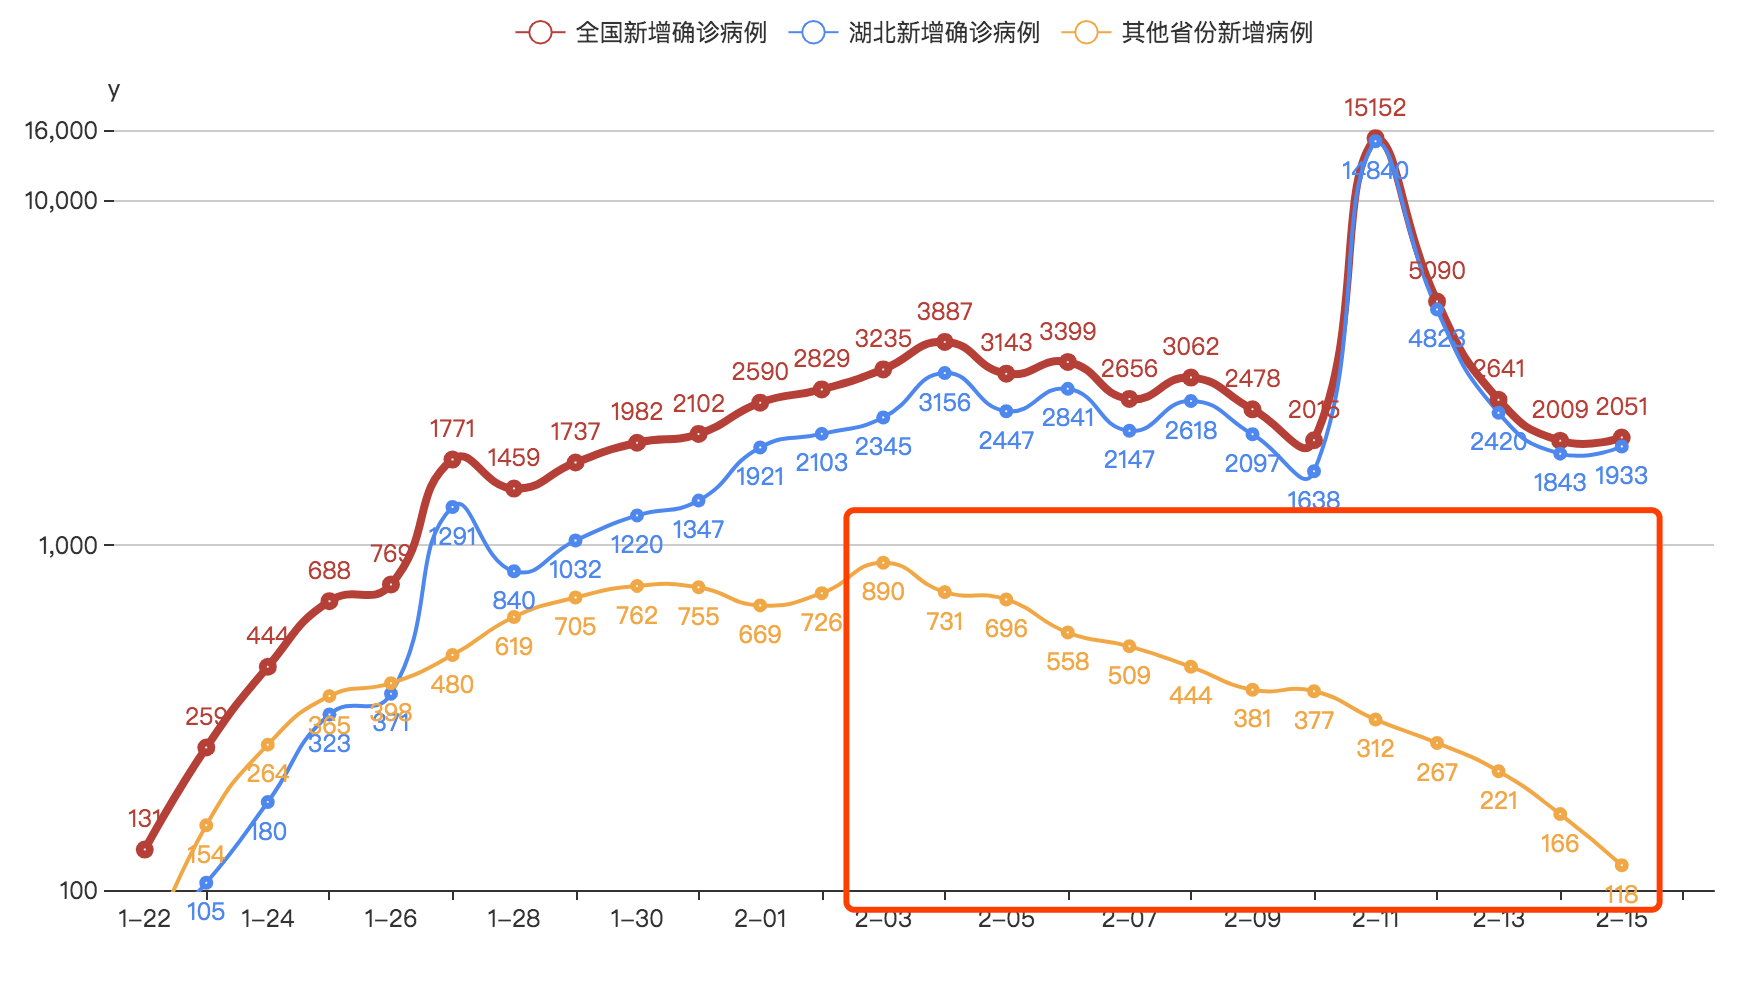
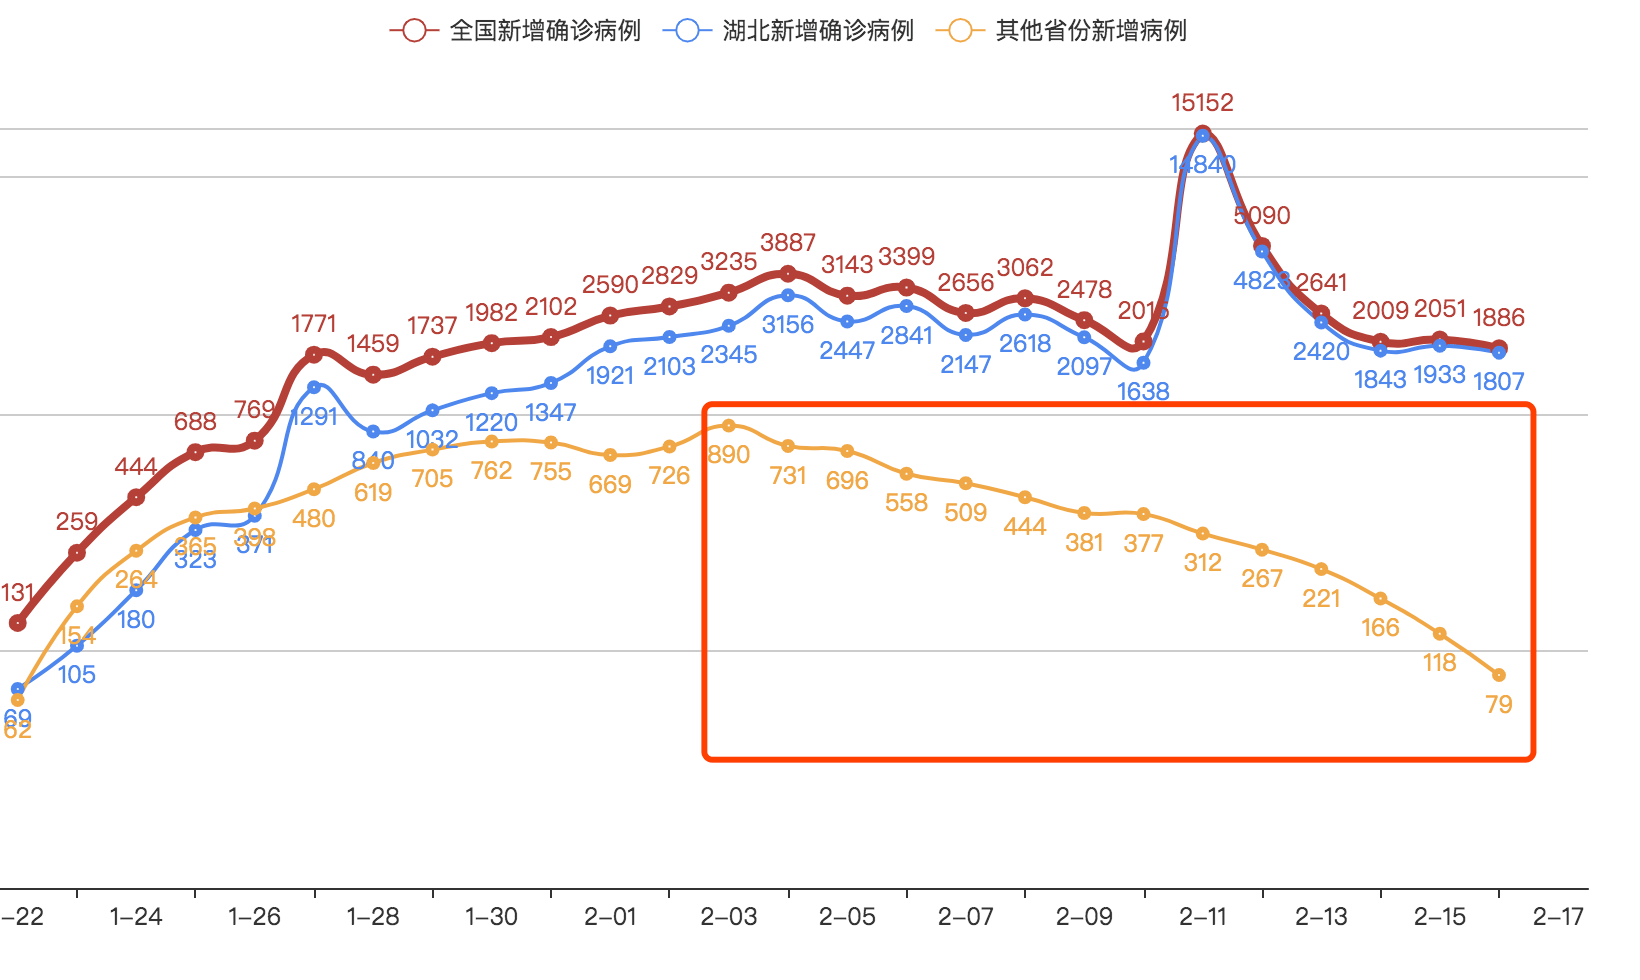
update result

diff --git a/main.py b/main.py
@@ -97,9 +97,9 @@ def draw_tendency(month, day):
     dates = ['1-%d' % i for i in range(22, 31 + 1)]
     dates.extend(['2-%02d' % i for i in range(1, day)])
     v0 = [131, 259, 444, 688, 769, 1771, 1459, 1737, 1982, 2102, 2590, 2829, 3235, 3887, 3143, 3399, 2656, 3062, 2478,
-          2015, 15152, 5090, 2641, 2009, 2051]
+          2015, 15152, 5090, 2641, 2009, 2051, 1886]
     v1 = [69, 105, 180, 323, 371, 1291, 840, 1032, 1220, 1347, 1921, 2103, 2345, 3156, 2447, 2841, 2147, 2618, 2097,
-          1638, 14840, 4823, 2420, 1843, 1933]
+          1638, 14840, 4823, 2420, 1843, 1933, 1807]
     v2 = [v0[i] - v1[i] for i in range(len(v0))]
     print(v2)
     c = (
@@ -126,7 +126,7 @@ def draw_tendency(month, day):
             .set_global_opts(title_opts=opts.TitleOpts(title=""),
                              yaxis_opts=opts.AxisOpts(
                                  max_=16000,
-                                 min_=100,
+                                 min_=10,
                                  type_="log",
                                  name="y",
                                  splitline_opts=opts.SplitLineOpts(is_show=True),
@@ -261,7 +261,7 @@ def draw_multiple_pie(month, day):
 
 
 if __name__ == '__main__':
-    m, d = 2, 17
+    m, d = 2, 18
     get_html(m, d)
     draw_tendency(m, d)
     draw_multiple_pie(m, d)

diff --git a/README.md b/README.md
@@ -20,7 +20,8 @@
 - 更新：2020.2.14 12:19 在新标准下，湖北省的新增病例相比起昨天大幅下降了，其他省份新增确诊持续减少。
 - 更新：2020.2.15 09:16 这几天的下降速度真的很喜人诶。
 - 更新：2020.2.16 10:16 湖北省新增病例连续3天下降，其他省份已经12连降。
-- 更新：2020.2.16 09:19
+- 更新：2020.2.17 09:19
+- 更新：2020.2.18 10:13
 
 # 全国/各省份疫情地图
 ![image](https://github.com/shadow12138/WuHanGanBaDei/blob/master/result/r1.png)
